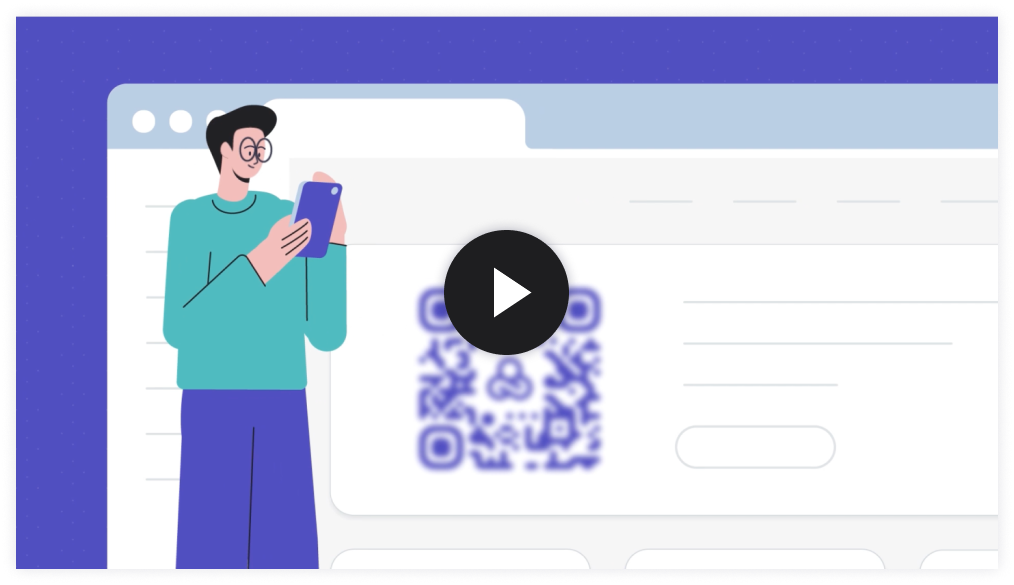
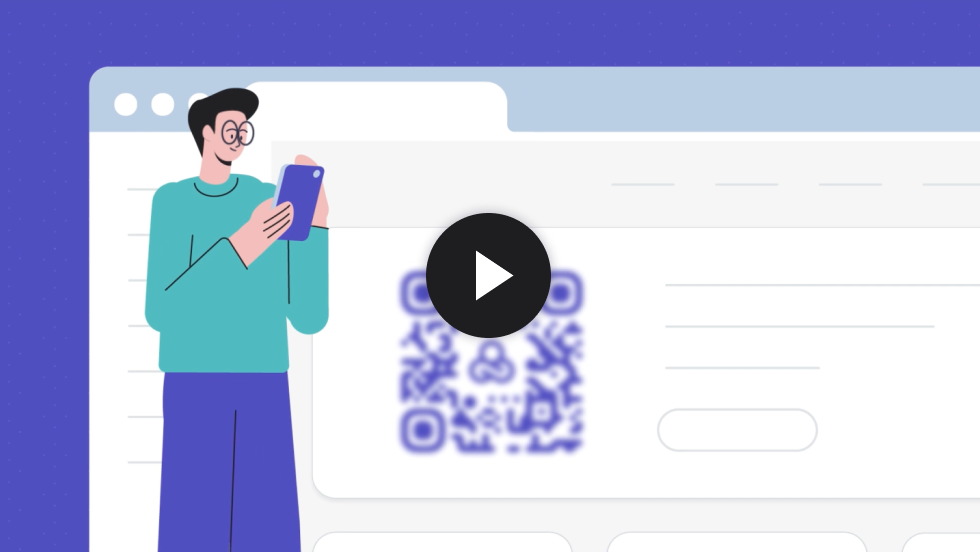
feature(video): add box shadow and remove transparent space in video poster

diff --git a/web/src/pages/home/sections/fifthSection/fifthSection.module.scss b/web/src/pages/home/sections/fifthSection/fifthSection.module.scss
@@ -27,10 +27,12 @@
     }
     video {
       max-width: 100%;
+      box-shadow: 0px 0px 16px 0px #0C0B331F;
       @include min-width($desktopXL) {
         max-width: 982px;
       }
     }
+
     &::after {
       content: "";
       position: absolute;

diff --git a/web/src/pages/products/gatacaStudio/sections/fifthSection/fifthSection.module.scss b/web/src/pages/products/gatacaStudio/sections/fifthSection/fifthSection.module.scss
@@ -34,6 +34,7 @@
 
     video {
       max-width: 100%;
+      box-shadow: 0px 0px 16px 0px #0C0B331F;
       @include min-width($desktopXL) {
         max-width: 982px;
       }
